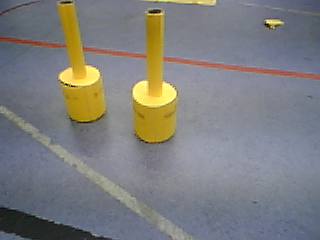
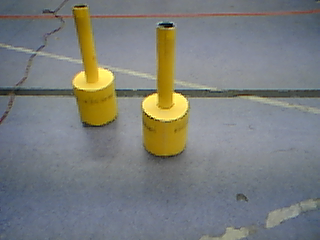
add new testpic for distace check

diff --git a/layer/dataanalysis/cameratest.h b/layer/dataanalysis/cameratest.h
@@ -31,6 +31,8 @@ namespace DataAnalysis
 		CPPUNIT_TEST(getAllCameraObjects_yellowPuckTwiceAndGreenBorderstone_cameraObjectsCountIs3);
 		CPPUNIT_TEST(getAllCameraObjects_yellowPuckTwiceAndGreenBorderstone1_cameraObjectsCountIs3);
 		CPPUNIT_TEST(getAllCameraObjects_yellowPuck_cameraObjectPositonIs0p6And0p1);
+		CPPUNIT_TEST(getAllCameraObjects_yellowPuckTwice_cameraObjectPositonOfObjectOneIs0p6And0p0);
+		CPPUNIT_TEST(getAllCameraObjects_yellowPuckTwice_cameraObjectPositonOfObjectTwoIs0p7And0p2);
 		CPPUNIT_TEST_SUITE_END();
 
 	private:
@@ -53,6 +55,8 @@ namespace DataAnalysis
 		//!@todo alte testbilder durhc neue ersetzten mit abgemessenen entfernungen
 		// test für erste ausgabe von getPosition --> werte sehen plausibel aus
 		void getAllCameraObjects_yellowPuck_cameraObjectPositonIs0p6And0p1();
+		void getAllCameraObjects_yellowPuckTwice_cameraObjectPositonOfObjectOneIs0p6And0p0();
+		void getAllCameraObjects_yellowPuckTwice_cameraObjectPositonOfObjectTwoIs0p7And0p2();
 
 	};
 }

diff --git a/layer/dataanalysis/cameratest.cpp b/layer/dataanalysis/cameratest.cpp
@@ -145,3 +145,19 @@ void CameraTest::getAllCameraObjects_yellowPuck_cameraObjectPositonIs0p6And0p1()
 
 	CPPUNIT_ASSERT_EQUAL(Point(0.6,0.1), camera.getAllCameraObjects(RobotPosition(Point(0,0))).getAllCameraObjects().front().getPosition());
 }
+
+void CameraTest::getAllCameraObjects_yellowPuckTwice_cameraObjectPositonOfObjectOneIs0p6And0p0()
+{
+	Hardware::CameraMock hardwareCamera("yellow_puck_twice");
+	CameraImpl camera(hardwareCamera);
+
+	CPPUNIT_ASSERT_EQUAL(Point(0.6,0.0), camera.getAllCameraObjects(RobotPosition(Point(0,0))).getAllCameraObjects().front().getPosition());
+}
+
+void CameraTest::getAllCameraObjects_yellowPuckTwice_cameraObjectPositonOfObjectTwoIs0p7And0p2()
+{
+	Hardware::CameraMock hardwareCamera("yellow_puck_twice");
+	CameraImpl camera(hardwareCamera);
+
+	CPPUNIT_ASSERT_EQUAL(Point(0.7,0.2), camera.getAllCameraObjects(RobotPosition(Point(0,0))).getAllCameraObjects().back().getPosition());
+}
